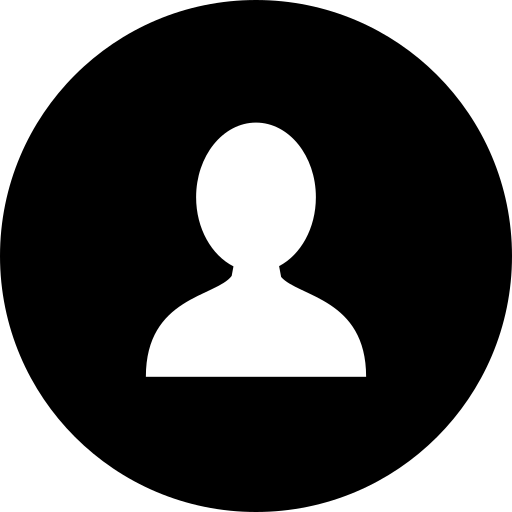
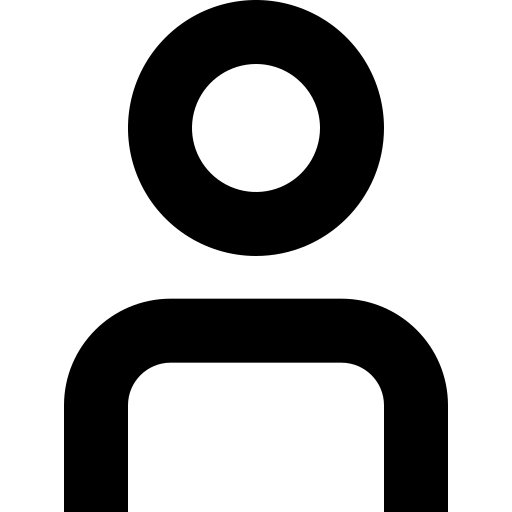
casa->final

diff --git a/Tienda/index.html b/Tienda/index.html
@@ -21,19 +21,17 @@
                         <div>Ropa</div>
                     </div>
                     <div id="iconosHeader">
-                        <div><img src="img/internet.png" alt="Search" class="iconos"></div>
+                        <div><img src="img/lupa.png" alt="Search" class="iconos"></div>
                         <div><img src="img/usuario.png" alt="Login/Logout" class="iconos"></div>
-                        <div><img src="img/lista.png" alt="Carrito" class="iconos"></div>
-                        <div><img src="img/avion.png" alt="Idioma" class="iconos"></div>
+                        <div><img src="img/carrito-de-compras.png" alt="Carrito" class="iconos"></div>
                     </div>
                 </nav>
             </header>
             <hr />
             <main>
                 <section id="novedades">
-                    <img class="iconos" src="img/corazon.png" alt="flecha">
+                    <p>Novedades</p>
                     <a href=""><img src="img/zapatillas/zapa2.webp" alt="zapatillas"></a>
-                    <img class="iconos" src="img/corazon.png" alt="flecha">
                 </section>
                 <section id="categorias">
                     <article><p>Calzado</p><img src="img/zapatillas/zapas3.webp" alt="zapatillas"></article>
@@ -50,8 +48,8 @@
                         Julio - Agosto 8h - 15h Lun - Vie
                     </p>
                     <div class="divIconos">
-                        <img src="img/grupo.png" alt="Telefono" class="iconos">
-                        <img src="img/grupo.png" alt="Correo" class="iconos">
+                        <img src="img/llamada-telefonica.png" alt="Telefono" class="iconos">
+                        <img src="img/en.png" alt="Correo" class="iconos">
                     </div>
                 </div>
                 <div>
@@ -72,8 +70,8 @@
                     <h4>Redes Sociales</h4>
                     <div class="divIconos">
                         <img src="img/instagram.png" alt="Instagram" class="iconos">
-                        <img src="img/instagram.png" alt="Twitter" class="iconos">
-                        <img src="img/instagram.png" alt="Tiktok" class="iconos">
+                        <img src="img/twitter.png" alt="Twitter" class="iconos">
+                        <img src="img/facebook.png" alt="Tiktok" class="iconos">
                     </div>
                 </div>
                 <div>

diff --git a/Tienda/css/estilos.css b/Tienda/css/estilos.css
@@ -49,15 +49,30 @@ main{
 }
 #novedades{
     display: flex;
+    flex-direction: column;
     margin: auto;
-    justify-content: space-evenly;
     align-items: center;
-    background-color: aqua;
     width: 80%;
     height: 30%;
+    margin-top: 20px;
+
+}
+#novedades > p{
+    position: absolute;
+    margin-top: 15%;
+    font-size: 80px;
+    opacity: 100%;
+    
+}
+#novedades > a {
+    display: flex;
+    justify-content: center;
+    width: 100%;
+    opacity: 60%;
 
 }
 #novedades > a >img{
+    margin: auto;
     width: 80%;
     height: 100%;
 }
@@ -74,7 +89,6 @@ main{
     flex-direction: column-reverse;
     height: fit-content;
     margin-bottom: 5%;
-    background-color: aqua;
 }
 #categorias > article:hover{
     color: rgba(0, 0, 0, 0.658);
@@ -90,6 +104,7 @@ main{
 
 #categorias > article > img{
     margin: auto;
+    opacity: 85%;
     width: 420px;
 }
 /*----Footer----*/
@@ -112,7 +127,7 @@ h4{
 }
 .divIconos{
     display: flex;
-    justify-content: center;
+    justify-content: space-evenly;
     width: 100%;
 }
 .divIconos > img{
